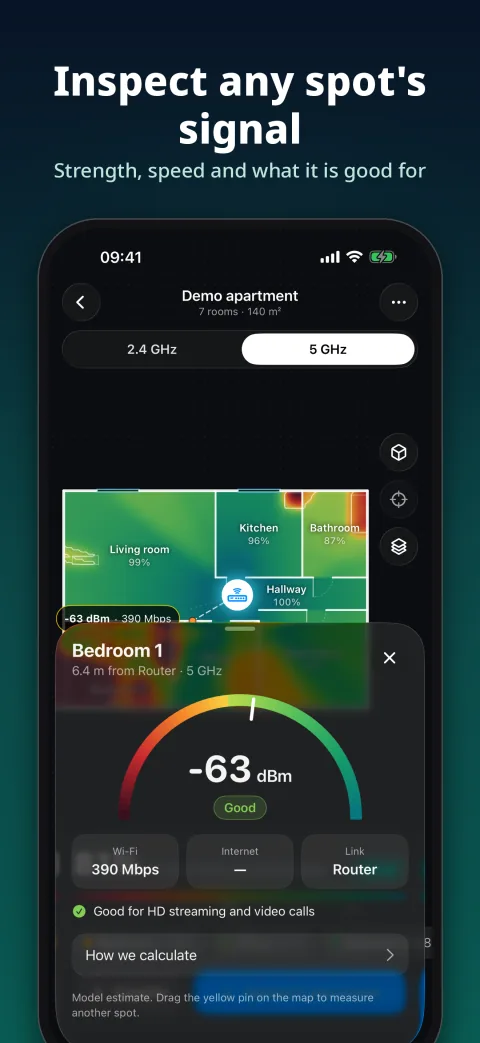
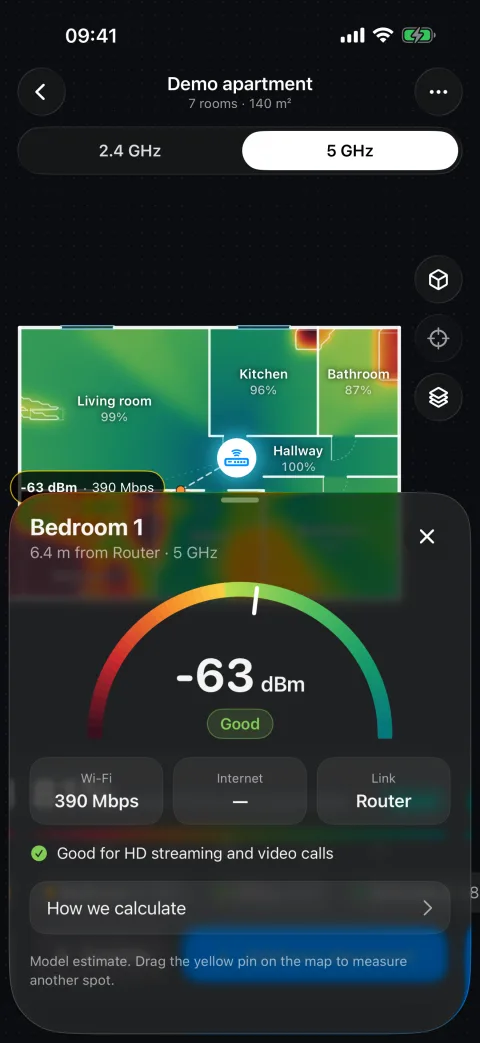
Site: show raw app captures without layered backgrounds

diff --git a/site/index.html b/site/index.html
@@ -39,7 +39,7 @@
       <div class="hero-copy">
         <p class="eyebrow">Wi-Fi Mesh Planner: LiDAR Scan</p>
         <h1 id="hero-title">Good Wi-Fi.<br><span>In every room.</span></h1>
-        <p class="intro">See where your signal falls short. Scan your home with LiDAR, uncover dead zones, and find a better place for your mesh.</p>
+        <p class="intro">Scan your home with LiDAR. See Wi-Fi dead zones in every room and find better spots for your mesh.</p>
         <button class="store-badge" type="button" disabled><small>Coming soon on the</small> <strong>App Store</strong></button>
         <span class="availability">Free. No data collected. Currently pending review.</span>
         <a class="text-link" href="#explore">Take a closer look <span aria-hidden="true">↘</span></a>
@@ -57,21 +57,21 @@
       </div>
       <article class="spatial">
         <figure><img src="/img/ipad-perspective-1320.webp" srcset="/img/ipad-perspective-720.webp 720w, /img/ipad-perspective-1320.webp 1320w" sizes="(max-width: 767px) 85vw, (max-width: 1024px) 42vw, 460px" width="1320" height="1760" loading="lazy" decoding="async" alt="iPad showing a 3D floor plan built from a LiDAR room scan, with Wi-Fi coverage mapped across the apartment."></figure>
-        <div class="feature-copy"><p class="eyebrow">Built around your home</p><h2>Walk through.<br>See it in 3D.</h2><p>Use LiDAR to scan your rooms, then explore your floor plan in 3D with a live Wi-Fi heatmap.</p><div class="feature-note"><strong>A little room for the big picture.</strong>Explore on iPhone or take a closer look on iPad. LiDAR scanning requires a compatible device.</div></div>
+        <div class="feature-copy"><h2>Walk through.<br>See it in 3D.</h2><p>Use LiDAR to scan your rooms, then explore your floor plan in 3D with a live Wi-Fi heatmap.</p><div class="feature-note"><strong>Made for iPhone and iPad.</strong>Explore on iPhone or take a closer look on iPad. LiDAR scanning requires a compatible device.</div></div>
       </article>
       <div class="detail-grid">
         <article class="detail">
-          <div class="detail-content"><p class="eyebrow">Understand your coverage</p><h3>Go beyond the signal bars.</h3><p>Find the dead zones. Inspect the signal in each room and compare coverage across Wi-Fi bands.</p><div class="band-list" aria-label="Wi-Fi bands"><span>2.4 GHz</span><span>5 GHz</span><span>6 GHz</span></div></div>
+          <div class="detail-content"><h3>Go beyond the signal bars.</h3><p>Find the dead zones. Inspect the signal in each room and compare coverage across Wi-Fi bands.</p><div class="band-list" aria-label="Wi-Fi bands"><span>2.4 GHz</span><span>5 GHz</span><span>6 GHz</span></div></div>
           <div class="detail-media"><img src="/img/iphone-inspector-880.webp" srcset="/img/iphone-inspector-480.webp 480w, /img/iphone-inspector-880.webp 880w" sizes="(max-width: 767px) 40vw, 210px" width="880" height="1912" loading="lazy" decoding="async" alt="Signal inspector showing the signal strength and estimated speed at a selected point on the floor plan."><img src="/img/iphone-perspective-880.webp" srcset="/img/iphone-perspective-480.webp 480w, /img/iphone-perspective-880.webp 880w" sizes="(max-width: 767px) 40vw, 210px" width="880" height="1912" loading="lazy" decoding="async" alt="A perspective view of the home's Wi-Fi heatmap on iPhone."></div>
         </article>
         <article class="detail">
-          <div class="detail-content"><p class="eyebrow">Give your mesh a plan</p><h3>The right spot changes things.</h3><p>Place your router and mesh satellites on the map. Use the placement optimizer to find better positions for your setup.</p><a class="text-link" href="/support/#faq">Questions about the app <span aria-hidden="true">↗</span></a></div>
+          <div class="detail-content"><h3>The right spot changes things.</h3><p>Place your router and mesh satellites on the map. Use the placement optimizer to find better positions for your setup.</p><a class="text-link" href="/support/#faq">Questions about the app <span aria-hidden="true">↗</span></a></div>
           <div class="detail-media"><img src="/img/iphone-optimizer-880.webp" srcset="/img/iphone-optimizer-480.webp 480w, /img/iphone-optimizer-880.webp 880w" sizes="(max-width: 767px) 40vw, 210px" width="880" height="1912" loading="lazy" decoding="async" alt="Placement optimizer comparing coverage before and after moving a mesh satellite in a demo apartment."><img src="/img/iphone-equipment-880.webp" srcset="/img/iphone-equipment-480.webp 480w, /img/iphone-equipment-880.webp 880w" sizes="(max-width: 767px) 40vw, 210px" width="880" height="1912" loading="lazy" decoding="async" alt="Mesh Planner equipment view for configuring the router and mesh satellites."></div>
         </article>
       </div>
     </section>
     <section class="privacy-panel wrap" aria-labelledby="privacy-title"><div><p class="eyebrow">Your home stays yours</p><h2 id="privacy-title">A floor plan.<br>Not a footprint.</h2></div><div><p>No accounts. No analytics. No advertising. Your scans, floor plans and measurements stay on your device unless you choose to export or share them.</p><a class="text-link" href="/privacy/">Read the privacy policy <span aria-hidden="true">↗</span></a></div></section>
-    <section class="closing wrap" aria-labelledby="closing-title"><div><p class="eyebrow">Mesh Planner for iPhone &amp; iPad</p><h2 id="closing-title">Know your home.<br>Plan your signal.</h2></div><button class="store-badge" type="button" disabled><small>Coming soon on the</small> <strong>App Store</strong></button></section>
+    <section class="closing wrap" aria-labelledby="closing-title"><h2 id="closing-title">Know your home.<br>Plan your signal.</h2><button class="store-badge" type="button" disabled><small>Coming soon on the</small> <strong>App Store</strong></button></section>
   </main>
   <footer class="site-footer wrap"><p class="footer-caption">© 2026 Silvio Ney. Mesh Planner.</p><nav class="footer-links" aria-label="Footer navigation"><a href="/privacy/">Privacy policy</a><a href="/support/">Support</a><a href="mailto:sneycampos@gmail.com">Get in touch</a></nav></footer>
 </body>

diff --git a/site/styles.css b/site/styles.css
@@ -34,7 +34,7 @@ p + p { margin-top: 1em; }
 .wrap { width: min(1224px, calc(100% - 96px)); margin-inline: auto; }
 .skip-link { position: absolute; top: -100px; left: 24px; padding: 12px 18px; z-index: 2; background: var(--ink); color: var(--paper); }
 .skip-link:focus { top: 12px; }
-.site-header { min-height: 112px; display: flex; align-items: center; justify-content: space-between; gap: 24px; border-bottom: 1px solid var(--line); }
+.site-header { min-height: 80px; display: flex; align-items: center; justify-content: space-between; gap: 24px; border-bottom: 1px solid var(--line); }
 .brand { display: inline-flex; align-items: center; gap: 12px; min-height: 44px; text-decoration: none; font-size: 21px; font-weight: 650; letter-spacing: -.045em; }
 .brand img { width: 34px; height: 34px; border-radius: 9px; }
 .site-nav { display: flex; align-items: center; gap: 32px; font-size: 14px; font-weight: 550; }
@@ -59,8 +59,8 @@ p + p { margin-top: 1em; }
 .hero-art figcaption { margin-top: 12px; text-align: center; color: #b7d2ce; font-size: 11px; letter-spacing: .04em; }
 .product-strip { display: flex; justify-content: space-between; gap: 24px; padding-block: 24px; border-top: 1px solid var(--line); border-bottom: 1px solid var(--line); font-size: 13px; font-weight: 550; }
 .product-strip span:last-child { color: var(--accent); }
-.section-intro { display: grid; grid-template-columns: 1.4fr 1fr; gap: 80px; align-items: end; padding-block: 112px 56px; }
-.section-intro p { max-width: 390px; color: var(--muted); }
+.section-intro { padding-block: 112px 56px; }
+.section-intro > p { max-width: 550px; margin-top: 24px; color: var(--muted); }
 .section-intro .eyebrow { color: var(--accent); }
 .spatial { display: grid; grid-template-columns: 1.25fr 1fr; align-items: center; gap: 72px; padding: 64px; border-radius: var(--radius); background: var(--surface); }
 .spatial figure { max-width: 460px; }
@@ -151,7 +151,7 @@ details p { color: var(--muted); padding: 0 30px 24px 0; font-size: 16px; }
   .site-nav { gap: 16px; font-size: 12px; }
   .site-nav .product-nav { display: none; }
   .hero { grid-template-columns: 1fr; gap: 44px; padding-block: 48px; }
-  h1, .hero h1 { font-size: clamp(3.6rem, 12vw, 5.5rem); }
+  h1, .hero h1 { font-size: clamp(3rem, 14.4vw, 5.5rem); }
   .hero .intro { font-size: 18px; }
   .hero .eyebrow { margin-bottom: 20px; }
   .hero-art { padding: 24px 40px 16px; max-width: 420px; width: 100%; justify-self: center; }
@@ -181,3 +181,11 @@ details p { color: var(--muted); padding: 0 30px 24px 0; font-size: 16px; }
   .faq h2 { font-size: 36px; }
 }
 @media (forced-colors: active) { .store-badge, .band-list span { border: 1px solid ButtonText; } }
+
+/* Raw app captures shown once: no arch/stage behind them, no extra card layers */
+.hero-art { padding: 0; background: none; border-radius: 0; max-width: 330px; }
+.hero-art figcaption { color: var(--muted); }
+.hero-art img, .detail-media img, .spatial img { display: block; border: 0; background: none; border-radius: 36px; box-shadow: 0 24px 50px -22px rgba(14,23,22,.40); }
+.detail-media img { border-radius: 22px; }
+.spatial img { border-radius: 24px; }
+@media (max-width: 767px) { .hero-art { padding: 0; max-width: 270px; } .hero-art img { border-radius: 30px; } .detail-media img { border-radius: 18px; } }
